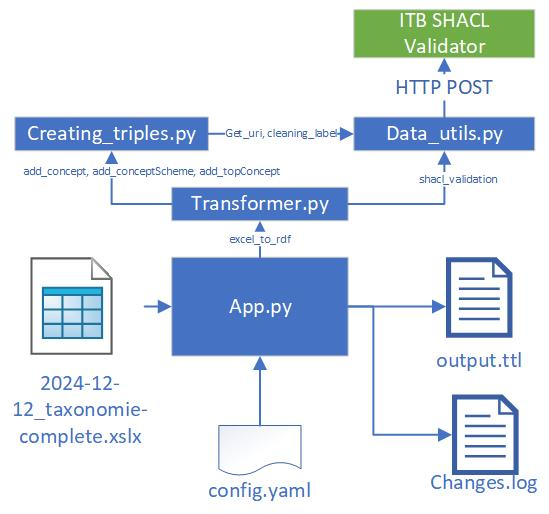
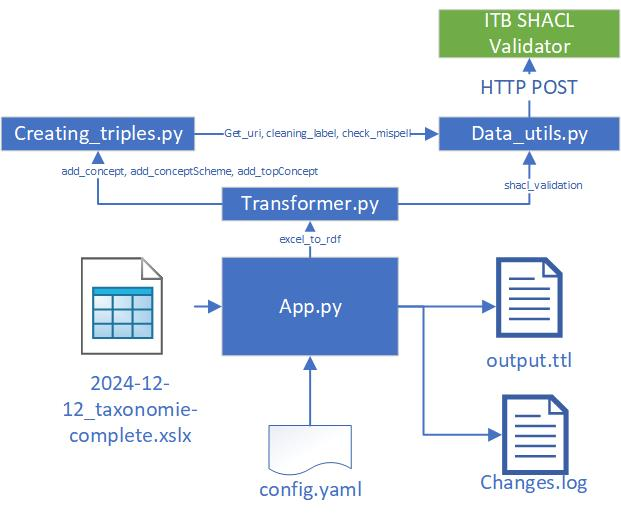
update readme

diff --git a/README.md b/README.md
@@ -85,7 +85,7 @@ At the end of the creation of the taxonomy in RDF, the Transformer.py calls the 
 ## Functions
 Transformer.py
 - excel_to_rdf(config): Main function that orchestrates the conversion of an Excel file to RDF format and validates it using a SHACL API having as input the configuration file object.
-- adding_triples(taxo_excel, taxo_graph, level, EXCEL_INFO, D4W_NAMESPACE): Processes taxonomy data and adds RDF triples to the graph based on the level of taxonomy, calling the functions add_concept(), add_topConcept() and add_conceptScheme().
+- adding_triples(taxo_excel, taxo_graph, level, highest_level, column_names, D4W_NAMESPACE, rules, default_language, default_version, create_english_labels, creation_date, default_status, checkmispell): Processes taxonomy data and adds RDF triples to the graph based on the level of taxonomy, calling the functions add_concept(), add_topConcept() and add_conceptScheme().
 
 Create_triples.py
 - add_concept(taxonomy, namespace, concept, level, rules, default_language, default_version, create_english_labels, default_status, checkmispell): Adds RDF triples representing a concept to the graph.
@@ -94,10 +94,10 @@ Create_triples.py
 
 Data_utils.py
 - ensure_first_letter_capitalized(text): Ensures the first letter of a string is capitalized.
-- cleaning_label(label): Cleans a label by replacing special characters with spaces and capitalizing the first letter.
+- cleaning_label(label, uri, rules): Cleans a label by replacing special characters with spaces and capitalizing the first letter.
+- check_mispell(definition): Find typos in the definitions.
 - get_uri(namespace, concept, level): Constructs a URI for a concept within a specified namespace and level.
-- rename_columns(excel, excel_info, level): Renames columns in a DataFrame based on taxonomy information.
-- shacl_validation(turtle_data): Validates RDF data in Turtle format using a SHACL API.
+- shacl_validation(turtle_data, validation_server, output_format, validation_version): Validates RDF data using the ITB Shacl Validator.
 
 ## Validation
 After generating the RDF file, the application validates it against a SHACL API endpoint at http://localhost:8080/shacl/d4wta-ap/api/validate, specified in the configuration file. Ensure this endpoint is accessible and configured to process validation requests.
